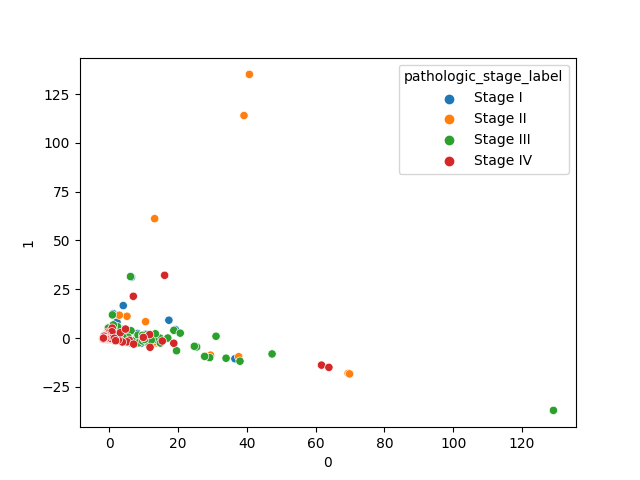
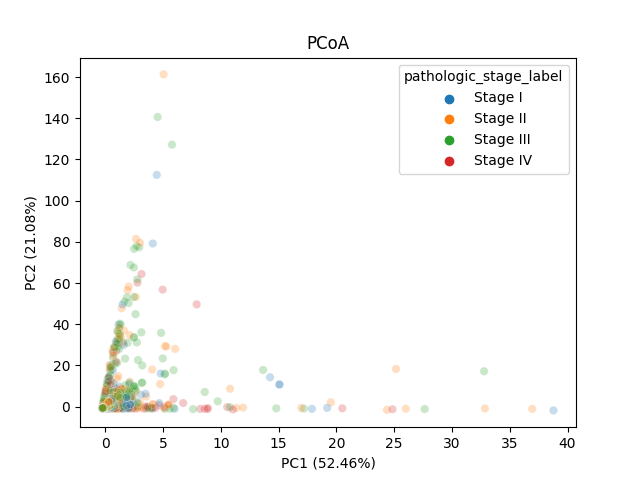
Fixed warnings, cleaned PCA code

diff --git a/src/visualizations/visualize.py b/src/visualizations/visualize.py
@@ -37,72 +37,35 @@ def init_visualization(cancer_stages):
     title = plt.title('AUROC')
 
 def create_pca(data, targets):
-    # Standardize data
+    # Run PCA
+    ## Standardize data
     scaler = StandardScaler()
     scaled_data = scaler.fit_transform(data)
-
-    # Run PCA
+    ## Run sklearn PCA on data
     pca = PCA(n_components=2)
     pca_data = pca.fit_transform(scaled_data)
-
-    # Convert ndarray to DataFrame, Add targets back in
+    ## Convert ndarray to DataFrame, Add targets back in
     pca_data = pd.DataFrame(pca_data, index=data.index)
     pca_data = pd.merge(pca_data, targets, on="sampleid", how="inner")
 
-    # Plot PCA and save
-    sns.scatterplot(0, 1, data=pca_data, hue='pathologic_stage_label')
+    # Plot PCA
+    ## Create scatterplot
+    sns.scatterplot(x=0, y=1, data=pca_data, 
+                    hue='pathologic_stage_label',
+                    alpha=0.25)
+    plt.title("PCoA")
+    ## Format PC labels to include explained variance
+    plt.xlabel(f'PC1 ({round(pca.explained_variance_[0], 2)}%)')
+    plt.ylabel(f'PC2 ({round(pca.explained_variance_[1], 2)}%)')
+    ## Save fig
     plt.savefig("PCA.png")
 
-    # Get loading scores from both PC's
+    # Return loading scores
+    ## Get loading scores from both PC's
     pc1_loading_scores = pd.Series(pca.components_[0], index=data.columns)
     pc2_loading_scores = pd.Series(pca.components_[1], index=data.columns)
-    
-    # Sort loading scores by magnitude
+    ## Sort loading scores by magnitude
     pc1_loading_scores = pc1_loading_scores.abs().sort_values(ascending=False)
     pc2_loading_scores = pc2_loading_scores.abs().sort_values(ascending=False)
-
+    ## Return extracted series
     return pc1_loading_scores, pc2_loading_scores
-
-
-# TODO: Rewrite this function to fit our project
-# 
-# def plot_model_metrics(plot_data_path, disease_types, tcga_abbrev, dataset_names):
-#     """Plot the model AUROC/AUPR scores
-#     Args:
-#         plot_data_path (String): path of the plot data
-#         disease_types (DataFrame): One hot encoded disease_type dataframe 
-#         tcga_abbrev (DataFrame): Dataframe of TCGA abbreviations
-#     """
-#     plot_data = pd.read_csv(plot_data_path, index_col='Metric')
-#     # initialize viz figure
-#     fig, ax = init_visualization(disease_types, tcga_abbrev)
-
-#     colors = ['red','blue','orange']
-#     offsets = [-0.3, 0, 0.3]
-
-#     for color, offset, dataset_name in zip(colors, offsets, plot_data.columns):
-#         color = color
-#         offset = offset
-#         dataset_name = dataset_name
-
-#         auroc = eval(plot_data[dataset_name]['AUROC'])
-#         aupr = eval(plot_data[dataset_name]['AUPR'])
-
-#         for i, cancer in enumerate(disease_types.columns, start=1):
-#             proportion = disease_types[cancer].mean()
-
-#             plot_confidence_interval(i+offset, auroc[cancer], color=color, axes=ax[0]) #AUROC plot
-#             plot_confidence_interval(i+offset, aupr[cancer], color=color, axes=ax[1]) #AUPR plot
-#             plot_baseline(proportion=proportion, x=i, axes=ax[1]) #AUPR baselines
-
-
-#     ax[0].hlines(0.5, xmin=0, xmax=10, linestyle ='dashed', color = 'black')
-#     custom_lines = [Line2D([0], [0], color='red'),
-#                     Line2D([0], [0], color='blue'),
-#                     Line2D([0], [0], color='orange')]
-    
-#     ax[0].legend(labels=dataset_names,
-#                handles=custom_lines, loc='center', bbox_to_anchor=(0.5, 1.23), ncol=3)
-#     plt.savefig('final_figure.png')
-    
-#     return

diff --git a/run.py b/run.py
@@ -94,37 +94,14 @@ def main(args):
         # merge counts data to metadata (drop any counts missing from index in metadata)
         data = pd.merge(metadata, counts, on="sampleid", how="left")
 
-        visualize.create_pca(data, targets)
+        pca = visualize.create_pca(counts, targets)
 
-        # scale data for pca
-        # from sklearn.preprocessing import StandardScaler
-        # scaler = StandardScaler()
-        # scaled_data = scaler.fit_transform(data)
-
-        # pca (duh)
-        # from sklearn.decomposition import PCA
-        # pca = PCA(n_components=2)
-        # data_pca = pca.fit_transform(scaled_data)
-
-        # convert numpy array output to DataFrame, add cancer stage back in
-        # data_pca = pd.DataFrame(data_pca, index=data.index)
-        # data_pca = pd.merge(data_pca, cancer_stages["pathologic_stage_label"], on="sampleid", how="inner")
-
-        # ## first, get the loading scores
-        # loading_scores = pd.Series(pca.components_[0], index=data.columns)
-        # ## now sort the loading scores based on their magnitude
-        # sorted_loading_scores = loading_scores.abs().sort_values(ascending=False)
-        # # get the names of the top 10 genes
-        # top_10_genes = sorted_loading_scores[0:10].index.values   
-        # # print the gene names and their scores (and +/- sign)
-        # print(loading_scores[top_10_genes])
-
-        # # plot that shiii
-        # import matplotlib.pyplot as plt
-        # import seaborn as sns
-        # sns.scatterplot(0, 1, data=data_pca, hue='pathologic_stage_label')
-        # plt.show()
-
+        print()
+        print("----  PC1 Loading Scores:  ----")
+        print(pca[0][:10])
+        print()
+        print("----  PC2 Loading Scores:  ----")
+        print(pca[0][:10])
 
 
 if __name__ == "__main__":

diff --git a/src/preprocessing/preprocessing.py b/src/preprocessing/preprocessing.py
@@ -51,7 +51,7 @@ def preprocess_metadata(df):
     df[ordinal_feats] = df[ordinal_feats].fillna('None')
 
     ct = make_column_transformer(
-        (OneHotEncoder(sparse=False), ohe_feats),
+        (OneHotEncoder(sparse_output=False), ohe_feats),
         (OrdinalEncoder(), ordinal_feats),
         (StandardScaler(), scaler_feats),
         ("passthrough", passthrough_feats),
